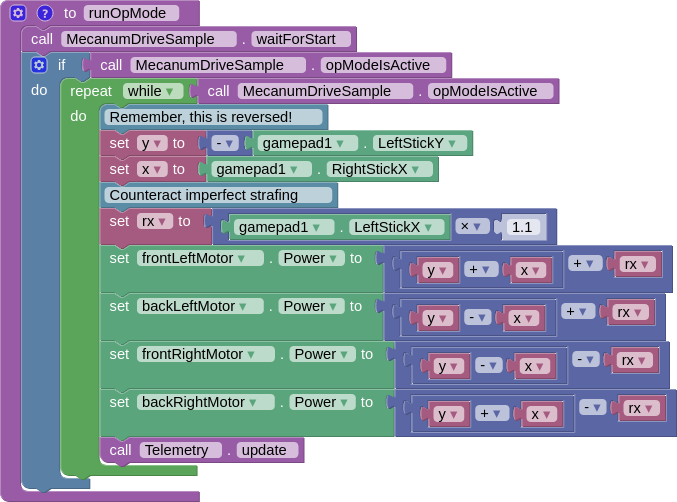
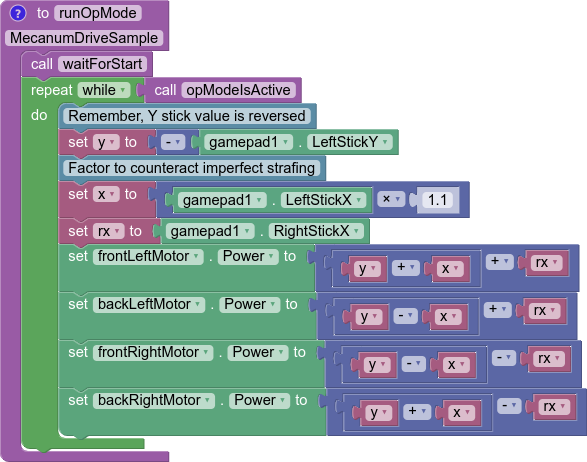
Clean up counteract strafe example.

diff --git a/source/docs/software/tutorials/mecanum-drive.rst b/source/docs/software/tutorials/mecanum-drive.rst
@@ -121,7 +121,7 @@ Now that we have a functioning mecanum driving program, there are a few things t
 
       .. code-block::
 
-         double y = -gamepad1.left_stick_y; // Remember, this is reversed!
+         double y = -gamepad1.left_stick_y; // Remember, Y stick is reversed!
          double x = gamepad1.left_stick_x * 1.1; // Counteract imperfect strafing
          double rx = gamepad1.right_stick_x;
 
